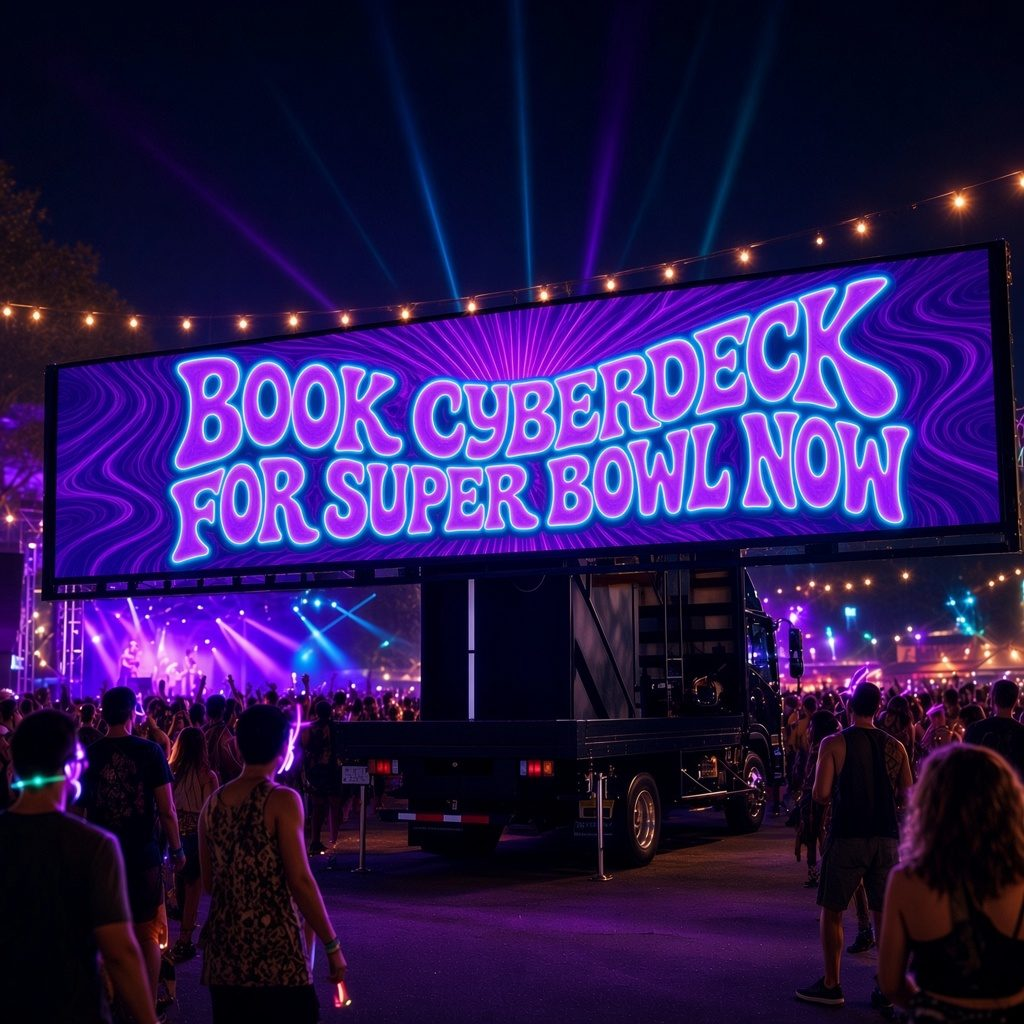
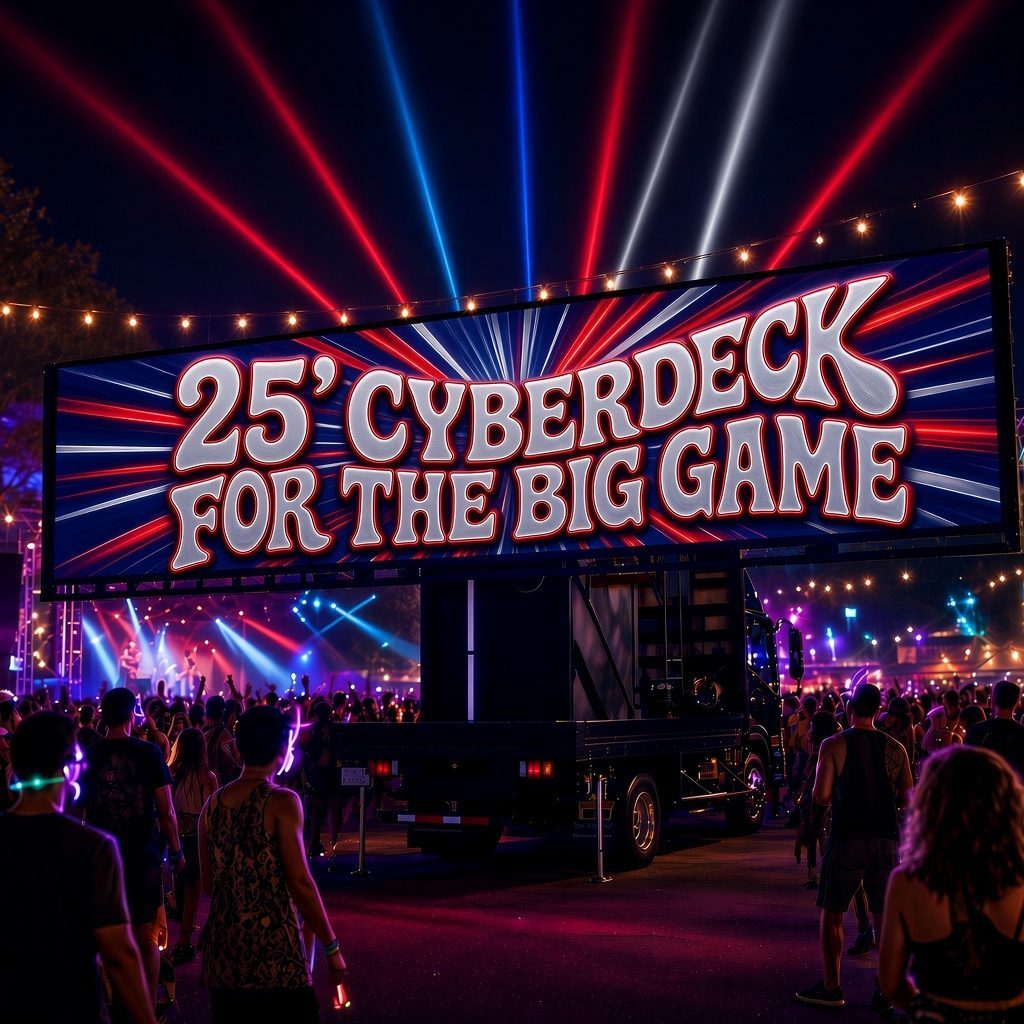
Big Game hero assets + quote.js fixes

diff --git a/assets/quote.js b/assets/quote.js
@@ -17,6 +17,7 @@
     if (!a || !campaign) return;
     var intent = a.getAttribute('data-quote-intent') || '';
     campaign.value = intent;
+    if (!intent) campaign.defaultValue = '';
     if (notes) {
       notes.placeholder = intent
         ? intent + ' — parked or mobile, hours needed, campaign details'
@@ -42,7 +43,7 @@
     e.preventDefault();
     contactCheck();
     if (!form.reportValidity()) return;
-    if (form.elements['_honey'].value) { show('ok', 'Thanks! Your quote request is in.'); form.reset(); return; }
+    if (form.elements['_honey'].value) { show('ok', 'Thanks! Your quote request is in.'); form.reset(); if (src) src.value = location.hostname; if (campaign) { campaign.value = ''; campaign.defaultValue = ''; } if (notes) notes.placeholder = notesDefaultPlaceholder; return; }
     var data = {};
     Array.prototype.forEach.call(form.elements, function (el) {
       if (el.name && el.type !== 'submit') data[el.name] = el.value;
@@ -61,6 +62,8 @@
       if (res.ok && (res.j.success === true || res.j.success === 'true')) {
         form.reset();
         if (src) src.value = location.hostname;
+        if (campaign) { campaign.value = ''; campaign.defaultValue = ''; }
+        if (notes) notes.placeholder = notesDefaultPlaceholder;
         show('ok', 'Thanks! Your quote request is in. We will reply soon. Need it faster? Call (424) 424-2034.');
       } else {
         throw new Error('send failed');
